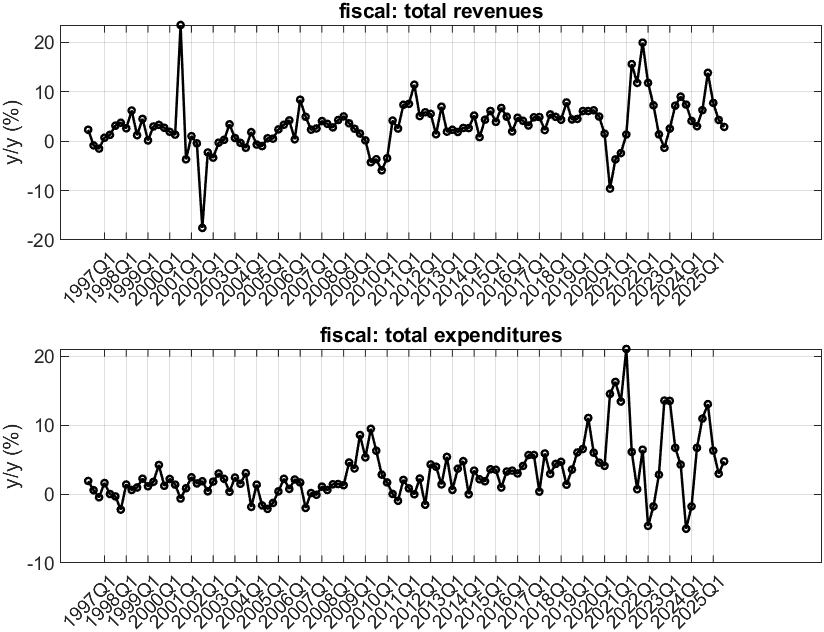
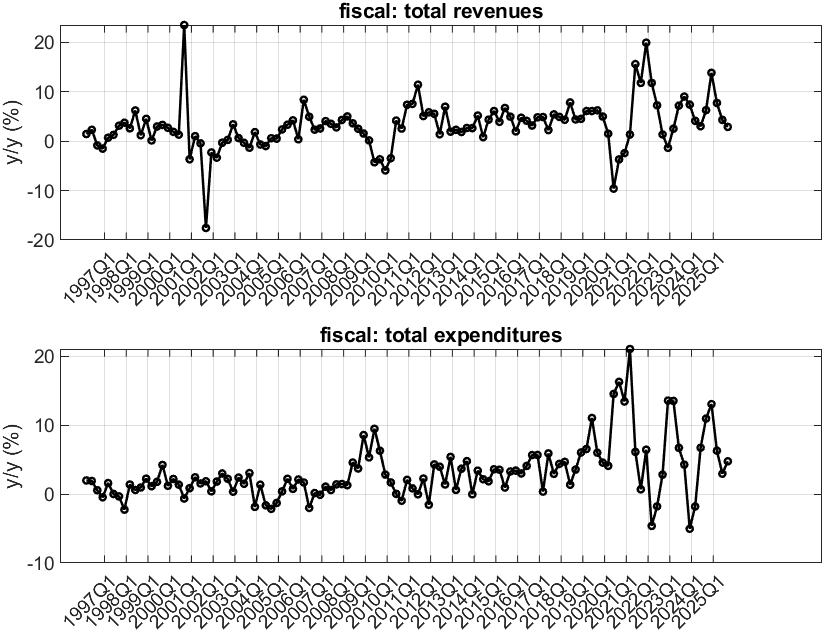
fix forecast plot: datetime axes, correct quarter labeling, and per-variable Hq
- plot_forecasts: switch x-axes to datetime objects for uniform quarter
  spacing; snap observations to quarter-end via snap_qend helper; add
  hist_start_year argument to control how much history is shown
- GibbsSampler: use ceil (not floor) for Hq so variables stored at
  publication-date months (e.g. GDP at April for Q1) get the correct
  number of forecast quarters
- load_data: fix Bundesbank fiscal date convention from quarter-start
  to quarter-end (+2/12 shift)

Changed region(s): [[0.091, 0.5411, 0.9102, 0.8418], [0.091, 0.0301, 0.9102, 0.3608]]

diff --git a/src/plot_forecasts.m b/src/plot_forecasts.m
@@ -1,10 +1,12 @@
-function plot_forecasts(draws, dataQ_restand, dates, options, names, groups, outpath, vars_to_plot)
+function plot_forecasts(draws, dataQ_restand, dates, options, names, groups, outpath, vars_to_plot, hist_start_year)
 
 if nargin < 7
     outpath = '';
 end
+if nargin < 9 || isempty(hist_start_year)
+    hist_start_year = -Inf;
+end
 
-% Determine which quarterly variable indices to plot
 namesQ = names(options.Nm + 1 : end);
 if nargin < 8 || isempty(vars_to_plot)
     plot_idx = 1 : options.Nq;
@@ -16,33 +18,25 @@ else
     end
 end
 
-% Last quarter-end date in the sample (use actual dates array value for precision)
-all_months_sample = round((dates - floor(dates)) * 12) + 1;
-last_qend_idx     = find(ismember(all_months_sample, [3 6 9 12]), 1, 'last');
-last_datesQ       = dates(last_qend_idx);
+Hq_max = size(draws.forecasts_restand, 1);
 
-% Forecast dates in quarter-START convention (Jan, Apr, Jul, Oct) to match
-% how quarterly variables are stored in the dataset. Shift last quarter-end
-% (e.g. March 2026) by +1 month to get the first forecast quarter-start
-% (April 2026 = Q2 2026), then step forward in 3-month increments.
-H           = ceil(options.Nh / 3);
-datesQ_fore = last_datesQ + 1/12 + (0 : H-1) * (3/12);
+% Convert float dates (yr + (month-1)/12) to datetime objects
+yr_all   = floor(dates);
+mo_all   = round((dates - yr_all) * 12) + 1;
+dates_dt = datetime(yr_all, mo_all, 1);
 
-% Percentiles across MCMC draws: [H x Nq x 5]
-% Columns: 2.5, 25, 50, 75, 97.5 -> 95% and 50% intervals around median
+% Snap a datetime to the last month of its quarter (3, 6, 9, or 12)
+snap_qend = @(dt) datetime(year(dt), ceil(month(dt) / 3) * 3, 1);
+
 pctiles = prctile(draws.forecasts_restand, [2.5 25 50 75 97.5], 3);
 
-% Colors
 blue_dark  = [0.13 0.47 0.71];
 blue_mid   = [0.53 0.75 0.90];
 blue_light = [0.78 0.89 0.95];
 
-n_hist_Q = 16; % ~4 years of quarterly history to display
-n_plots  = length(plot_idx);
-
+n_plots = length(plot_idx);
 figure;
 tiledlayout(n_plots, 1, 'TileSpacing', 'compact', 'Padding', 'compact');
-
 leg_handles = [];
 
 for k = 1 : n_plots
@@ -50,63 +44,47 @@ for k = 1 : n_plots
     nexttile;
     hold on;
 
-    % Historical quarterly observations for this variable
     idx_Q_i  = find(~isnan(dataQ_restand(i, :)));
-    n_show   = min(n_hist_Q, length(idx_Q_i));
-    idx_plot = idx_Q_i(end - n_show + 1 : end);
+    idx_plot = idx_Q_i(dates(idx_Q_i) >= hist_start_year);
 
-    % Anchor blue forecast line at last historical observation
-    last_hist_date = dates(idx_Q_i(end));
-    last_hist_val  = dataQ_restand(i, idx_Q_i(end));
+    last_hist_dt  = snap_qend(dates_dt(idx_Q_i(end)) - calmonths(1));
+    last_hist_val = dataQ_restand(i, idx_Q_i(end));
 
-    % Skip forecast quarters already covered by this variable's historical data
-    % (e.g. GDP has Q2 2026 observed so its first unobserved forecast is Q3)
-    skip          = sum(datesQ_fore <= last_hist_date + 1e-9);
-    datesQ_fore_i = datesQ_fore(skip + 1 : end);
+    Hq_i    = draws.Hq(i);
+    j_start = Hq_max - Hq_i + 1;
 
-    % Extended forecast dates: anchor at last known value so fan chart
-    % opens from there and blue line connects to historical data
-    datesQ_ext = [last_hist_date, datesQ_fore_i];
+    % Per-variable forecast datetimes: uniform 3-month steps from last observation
+    datesQ_i = last_hist_dt + calmonths(3 * (1 : Hq_i));
 
-    % Percentiles for unobserved forecast quarters only
-    p025 = squeeze(pctiles(skip+1:end, i, 1))';
-    p25  = squeeze(pctiles(skip+1:end, i, 2))';
-    p50  = squeeze(pctiles(skip+1:end, i, 3))';
-    p75  = squeeze(pctiles(skip+1:end, i, 4))';
-    p975 = squeeze(pctiles(skip+1:end, i, 5))';
+    p025 = reshape(pctiles(j_start:Hq_max, i, 1), 1, []);
+    p25  = reshape(pctiles(j_start:Hq_max, i, 2), 1, []);
+    p50  = reshape(pctiles(j_start:Hq_max, i, 3), 1, []);
+    p75  = reshape(pctiles(j_start:Hq_max, i, 4), 1, []);
+    p975 = reshape(pctiles(j_start:Hq_max, i, 5), 1, []);
 
-    % Extended with anchor (uncertainty = 0 at last known value)
-    p025_ext = [last_hist_val, p025];
-    p25_ext  = [last_hist_val, p25];
-    p50_ext  = [last_hist_val, p50];
-    p75_ext  = [last_hist_val, p75];
-    p975_ext = [last_hist_val, p975];
+    datesQ_ext = [last_hist_dt, datesQ_i];
+    p025_ext   = [last_hist_val, p025];
+    p25_ext    = [last_hist_val, p25];
+    p50_ext    = [last_hist_val, p50];
+    p75_ext    = [last_hist_val, p75];
+    p975_ext   = [last_hist_val, p975];
 
-    % Fan chart bands (fan opens from last known value)
     h95 = fill([datesQ_ext, fliplr(datesQ_ext)], [p025_ext, fliplr(p975_ext)], ...
                blue_light, 'EdgeColor', 'none');
     h50 = fill([datesQ_ext, fliplr(datesQ_ext)], [p25_ext, fliplr(p75_ext)], ...
                blue_mid, 'EdgeColor', 'none');
-
-    % Median forecast (dark blue) starting from last historical value
-    hmed  = plot(datesQ_ext, p50_ext, '-o', 'Color', blue_dark, ...
-                 'LineWidth', 1.5, 'MarkerSize', 4);
-
-    % Historical data in black, overwrites the blue anchor point
-    hhist = plot(dates(idx_plot), dataQ_restand(i, idx_plot), '-o', ...
+    hmed = plot(datesQ_ext, p50_ext, '-o', 'Color', blue_dark, ...
+                'LineWidth', 1.5, 'MarkerSize', 4);
+    hist_dates_dt = snap_qend(dates_dt(idx_plot) - calmonths(1));
+    hhist = plot(hist_dates_dt, dataQ_restand(i, idx_plot), '-o', ...
                  'Color', 'k', 'LineWidth', 1.5, 'MarkerSize', 4);
+    xline(last_hist_dt, '--k', 'LineWidth', 1);
 
-    % Vertical line at last available observation for this variable
-    xline(last_hist_date, '--k', 'LineWidth', 1);
-
-    % X-axis: use exact plotted date values as tick positions so ticks and
-    % data points align perfectly, then label as YYYYQq
-    xtick_pos = [dates(idx_plot), datesQ_fore_i];
+    % Quarter labels from datetime using built-in year/month functions
+    xtick_pos = [hist_dates_dt, datesQ_i];
     xtick_lbl = cell(1, length(xtick_pos));
-    for j = 1 : length(xtick_pos)
-        yr = floor(xtick_pos(j));
-        mo = round((xtick_pos(j) - yr) * 12) + 1;
-        xtick_lbl{j} = sprintf('%dQ%d', yr, ceil(mo / 3));
+    for jj = 1 : length(xtick_pos)
+        xtick_lbl{jj} = sprintf('%dQ%d', year(xtick_pos(jj)), ceil(month(xtick_pos(jj)) / 3));
     end
     set(gca, 'XTick', xtick_pos, 'XTickLabel', xtick_lbl, 'XTickLabelRotation', 45);
 
@@ -119,7 +97,6 @@ for k = 1 : n_plots
     end
 end
 
-% Shared legend placed below all tiles
 lgd = legend(leg_handles, ...
              'Historical', 'Median forecast', '50% interval', '95% interval', ...
              'Orientation', 'horizontal');

diff --git a/src/GibbsSampler.m b/src/GibbsSampler.m
@@ -1,9 +1,24 @@
 function draws = GibbsSampler( X , yQ , priors , options )
 
-    % preallocate space for draws
-    draws.forecasts = NaN( ceil(options.Nh / 3), options.Nq ,options.Nreplic/options.Nthin ) ;
+    draws.flag_phi_prev = NaN( 1  , options.Nreplic/options.Nthin ) ;
 
-    draws.flag_phi_prev = NaN( 1  , options.Nreplic/options.Nthin ) ; 
+    % per-variable total forecast horizon: count monthly NaN positions from
+    % Nt+Nh back to last observation (quarter-end months), divide by 3.
+    % j=1 is the earliest (most-distant) quarter, j=Hq_max is the furthest.
+    H_fore = ceil(options.Nh / 3);
+    Hq = zeros(1, options.Nq);
+    for i = 1 : options.Nq
+        last_obs = find(~isnan(yQ(i, :)), 1, 'last');
+        if isempty(last_obs)
+            Hq(i) = H_fore;
+        else
+            Hq(i) = ceil((options.Nt + options.Nh - last_obs) / 3);
+        end
+    end
+    Hq_max = max(Hq);
+
+    draws.Hq        = Hq;
+    draws.forecasts = NaN(Hq_max, options.Nq, options.Nreplic / options.Nthin);
 
     % compute effective lag length
     options.Np_eff = max( [options.Np , 5 + options.Nr / options.Ns - 1 , options.Nr/options.Ns + options.Nj ] ) ; 
@@ -92,31 +107,32 @@ function draws = GibbsSampler( X , yQ , priors , options )
         end    
 
         % sample forecasts
-        % ------------------ 
-        Yqfore = NaN(length(options.Nh),options.Nq); 
-        Yfore = [y; NaN(max(options.Nh),options.Nq)];    
-        etafore = [eta; NaN(max(options.Nh),options.Ns)];
+        % ------------------
+        Yqfore  = NaN(Hq_max, options.Nq);
+        Yfore   = [y; NaN(options.Nh, options.Nq)];
+        etafore = [eta; NaN(options.Nh, options.Ns)];
 
-        % simulate eta and Y max(options.Nh)-periods ahead    
-        for h = 1 : max(options.Nh)
-            % update etafore_vec
-            etafore_vec = []; for p = 1 : options.Np ;etafore_vec = [etafore_vec; etafore(end - max(options.Nh) + h - p,:)'];end        
-            % propagate factors forward
-            etafore(end-max(options.Nh)+h,:) = (phi*etafore_vec + chol(Sigma)*randn(options.Ns,1))';  
-            etalag = etafore(end-max(options.Nh)+h,:);
-            for s = 1 : options.Nr/options.Ns - 1
-                etalag = [etafore( end - max( options.Nh ) + h - s,:) etalag];
+        % simulate eta and Y options.Nh-periods ahead
+        for h = 1 : options.Nh
+            etafore_vec = [];
+            for p = 1 : options.Np
+                etafore_vec = [etafore_vec; etafore(end - options.Nh + h - p, :)'];
             end
-
-            % compute Yplus(h,:)
-            Yfore(end-max(options.Nh)+h,:) = etalag * lambda( options.Nm + 1 : end , : )' + (chol(diag(omega( options.Nm + 1 : end , 1 ))) * randn(options.Nq,1))' ; 
+            etafore(end - options.Nh + h, :) = (phi * etafore_vec + chol(Sigma) * randn(options.Ns, 1))';
+            etalag = etafore(end - options.Nh + h, :);
+            for s = 1 : options.Nr/options.Ns - 1
+                etalag = [etafore(end - options.Nh + h - s, :) etalag];
+            end
+            Yfore(end - options.Nh + h, :) = etalag * lambda(options.Nm + 1 : end, :)' + ...
+                (chol(diag(omega(options.Nm + 1 : end, 1))) * randn(options.Nq, 1))';
         end
 
-        % extract quarterly forecasts from Yfore (h=1: nearest quarter, h=H: furthest)
-        H = ceil(options.Nh / 3);
-        for h = 1 : H
-            for i = 1 : options.Nq
-                Yqfore(h, i) = [1/3 2/3 3/3 2/3 1/3] * Yfore(end - (H - h) * 3 - 4 : end - (H - h) * 3, i);
+        % extract quarterly forecasts/backcasts via M-M aggregation:
+        % j=1 earliest quarter, j=Hq_max furthest; variable i fills j=Hq_max-Hq(i)+1..Hq_max
+        for i = 1 : options.Nq
+            for j = Hq_max - Hq(i) + 1 : Hq_max
+                Yqfore(j, i) = [1/3 2/3 3/3 2/3 1/3] * ...
+                    Yfore(end - (Hq_max - j)*3 - 4 : end - (Hq_max - j)*3, i);
             end
         end
 
@@ -177,9 +193,9 @@ function draws = GibbsSampler( X , yQ , priors , options )
         % store draws
         % ------------------------------------------------------------------- %
 
-        if m > options.Nburnin && mod(m - options.Nburnin,options.Nthin) == 0  
-            draws.forecasts( :, :, (m - options.Nburnin)/options.Nthin ) = Yqfore ;                
-            draws.flag_phi_prev( :  , (m - options.Nburnin)/options.Nthin ) = flag_phi_prev ;
+        if m > options.Nburnin && mod(m - options.Nburnin, options.Nthin) == 0
+            draws.forecasts(:, :, (m - options.Nburnin)/options.Nthin) = Yqfore;
+            draws.flag_phi_prev(:, (m - options.Nburnin)/options.Nthin) = flag_phi_prev;
         end
     end
 end

diff --git a/main.m b/main.m
@@ -4,8 +4,8 @@ addpath("data")
 addpath("src")
 
 % options
-options.Nburnin = 50 ; % # of burn-ins
-options.Nreplic = 100 ; % # of replics
+options.Nburnin = 1000 ; % # of burn-ins
+options.Nreplic = 1000 ; % # of replics
 options.Nthin = 10 ; % store each options.thinning-th draw
 options.Ndisplay = 1000 ;  % display each options.display-th iteration
 options.flag_samplemoments = 0;
@@ -63,4 +63,4 @@ end
 exportgraphics(fig_fiscal, './output/fiscal_vars.png', 'Resolution', 150);
 
 plot_forecasts(draws, dataQ_restand, dates, options, names, groups, './output', ...
-               {'gross domestic product', 'total expenditures', 'total revenues'});
+               {'gross domestic product', 'total expenditures', 'total revenues'}, 2022);

diff --git a/src/load_data.m b/src/load_data.m
@@ -31,12 +31,12 @@ for s = 1 : 2
     values    = raw{2};
     n         = length(values);
 
-    % 'YYYY-QN' -> quarter-start float (Q1->+0, Q2->+0.25, Q3->+0.5, Q4->+0.75)
+    % 'YYYY-QN' -> quarter-end float (Q1->Mar, Q2->Jun, Q3->Sep, Q4->Dec)
     dates_q = NaN(1, n);
     for j = 1 : n
         yr         = str2double(dates_str{j}(1:4));
         q          = str2double(dates_str{j}(7));
-        dates_q(j) = yr + (q - 1) * 3 / 12;
+        dates_q(j) = yr + (q - 1) * 3 / 12 + 2/12;
     end
 
     % Year-over-year growth rate (4-quarter difference)
